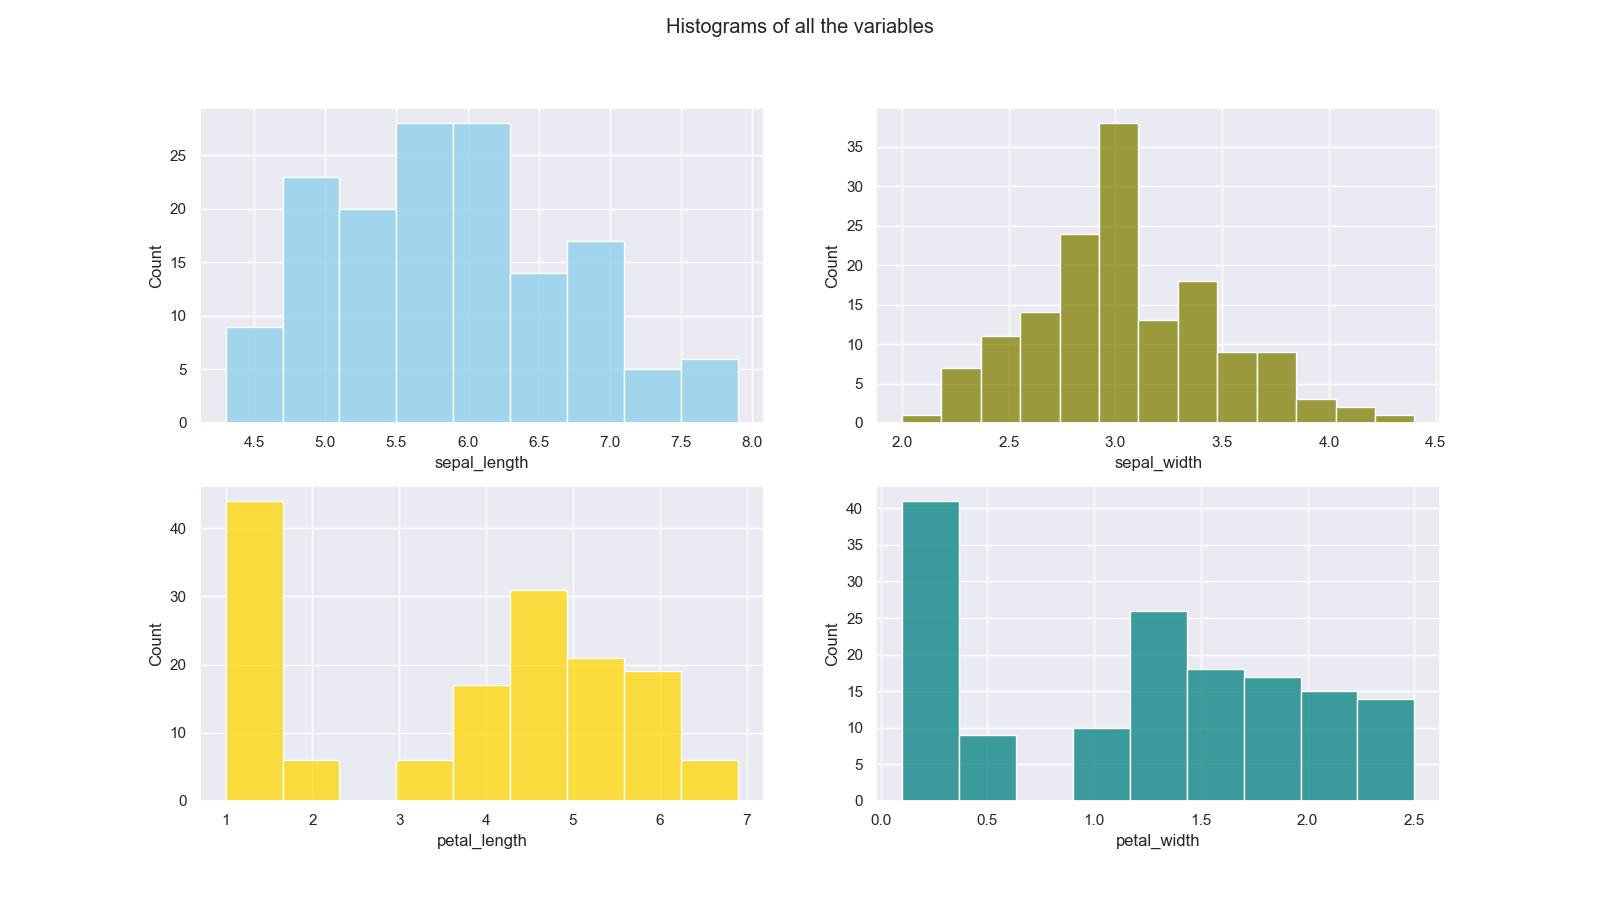
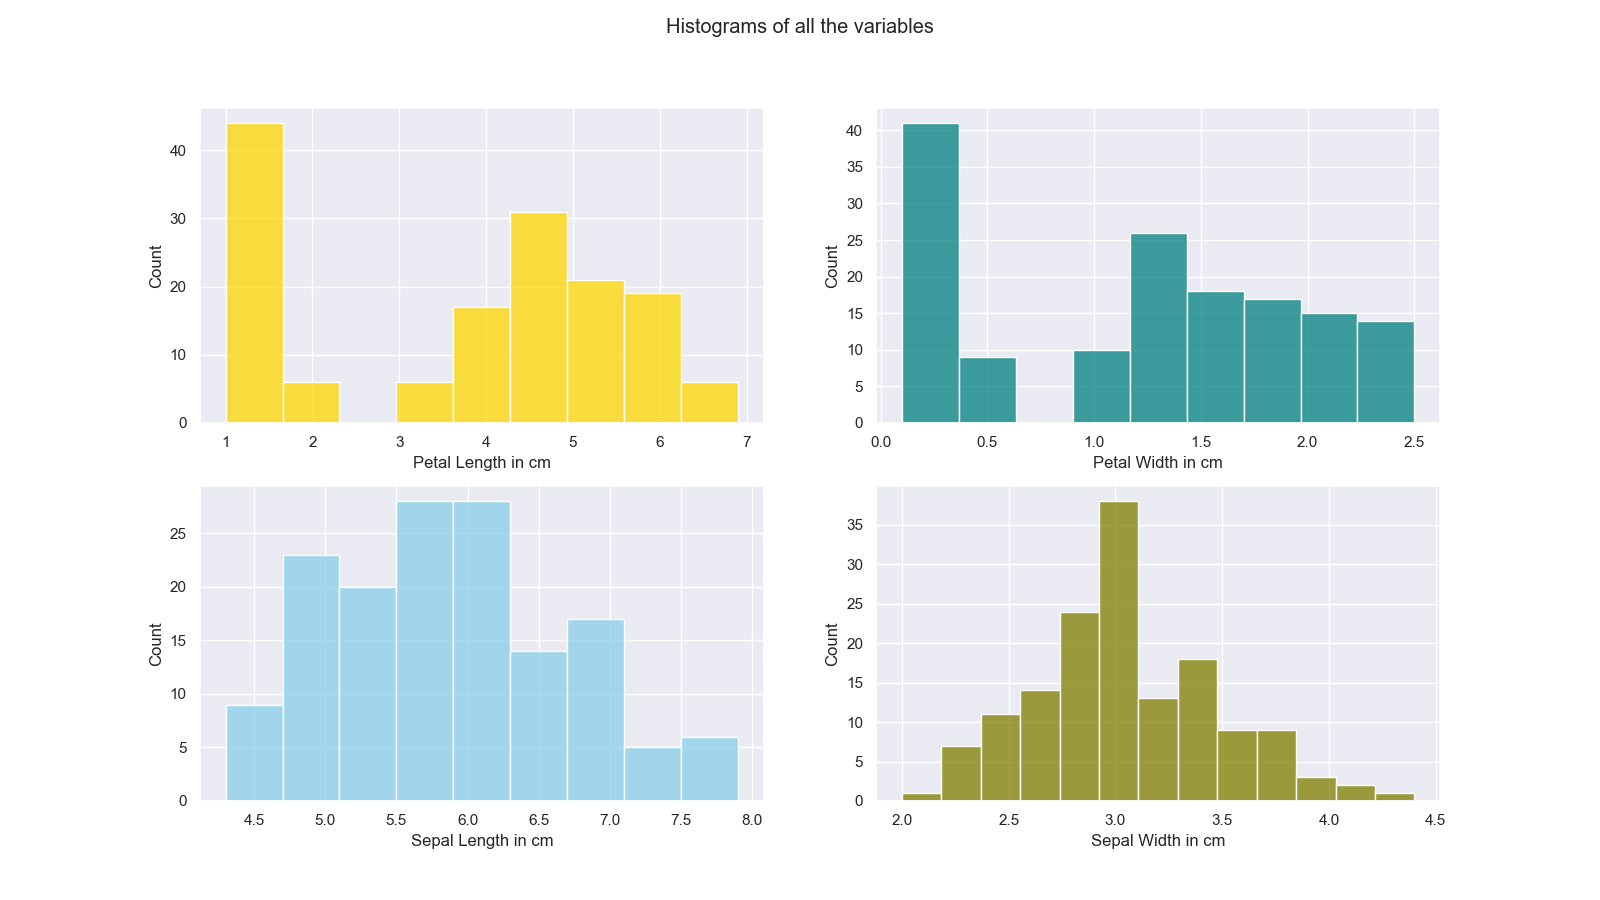
Swapped order of histograms to match order of violin plots and added labels to x axis

diff --git a/dataVis.py b/dataVis.py
@@ -148,10 +148,10 @@ def histo_plots():
     sns.set(style="darkgrid")
     fig, axes = plt.subplots(2, 2, figsize=(16, 9))
     fig.suptitle("Histograms of all the variables")
-    sns.histplot(df.sepal_length, color="skyblue", kde=False, ax=axes[0, 0])
-    sns.histplot(df.sepal_width, color="olive", kde=False, ax=axes[0, 1])
-    sns.histplot(df.petal_length, color="gold", kde=False, ax=axes[1, 0])
-    sns.histplot(df.petal_width, color="teal", kde=False, ax=axes[1, 1])
+    sns.histplot(df.petal_length, color="gold", kde=False, ax=axes[0, 0]).set_xlabel("Petal Length in cm")
+    sns.histplot(df.petal_width, color="teal", kde=False, ax=axes[0, 1]).set_xlabel("Petal Width in cm")
+    sns.histplot(df.sepal_length, color="skyblue", kde=False, ax=axes[1, 0]).set_xlabel("Sepal Length in cm")
+    sns.histplot(df.sepal_width, color="olive", kde=False, ax=axes[1, 1]).set_xlabel("Sepal Width in cm")
     #plt.show()
     plt.savefig('Data Visualisation/histograms.png')
     return

diff --git a/README.md b/README.md
@@ -218,12 +218,14 @@ The violin plots are overlaid on top of the box plots to have visual representat
 
 <img src="Data Visualisation/box_violin_plots.png" alt="Box plots of species">
 
-From looking at the above plots it can be observed that 'Iris Setosa' has some outliers when it comes to sepal width and these numbers could potentially be skewing the results. It can also be observed that 'Iris Virginica' has some outliers around sepal length.
+From looking at the above plots it can be observed that:
+- 'Iris Setosa' has some outliers when it comes to sepal width, potentially be skewing the results.
+- 'Iris Virginica' has some outliers around sepal length.
 
 
 **Histograms**
 
-A histogram is a type of plot that lets us see the frequency distribution (also known as shape) of a set of data.
+A histogram is a type of plot that visualises the frequency distribution (also known as shape) of a set of data.
 A histogram is different to a bar chart because the bars are connected to each other, unlike a bar chart for categorical data. 
 It can be thought of as a picture of the data and in the histograms below:
 - The height of each bar represents the count of each iris (frequency) of that variable
